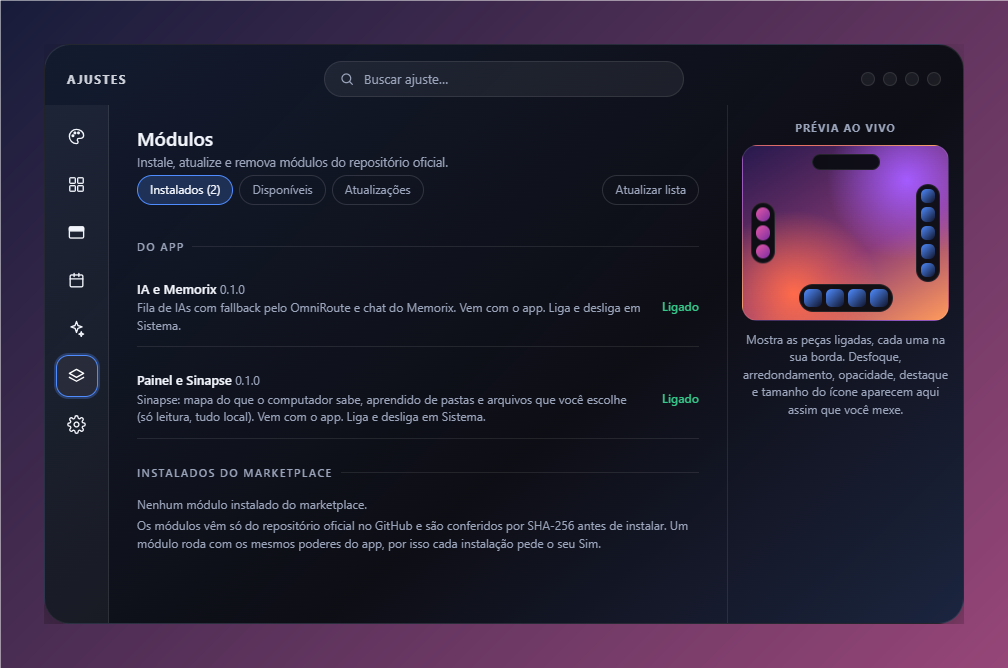
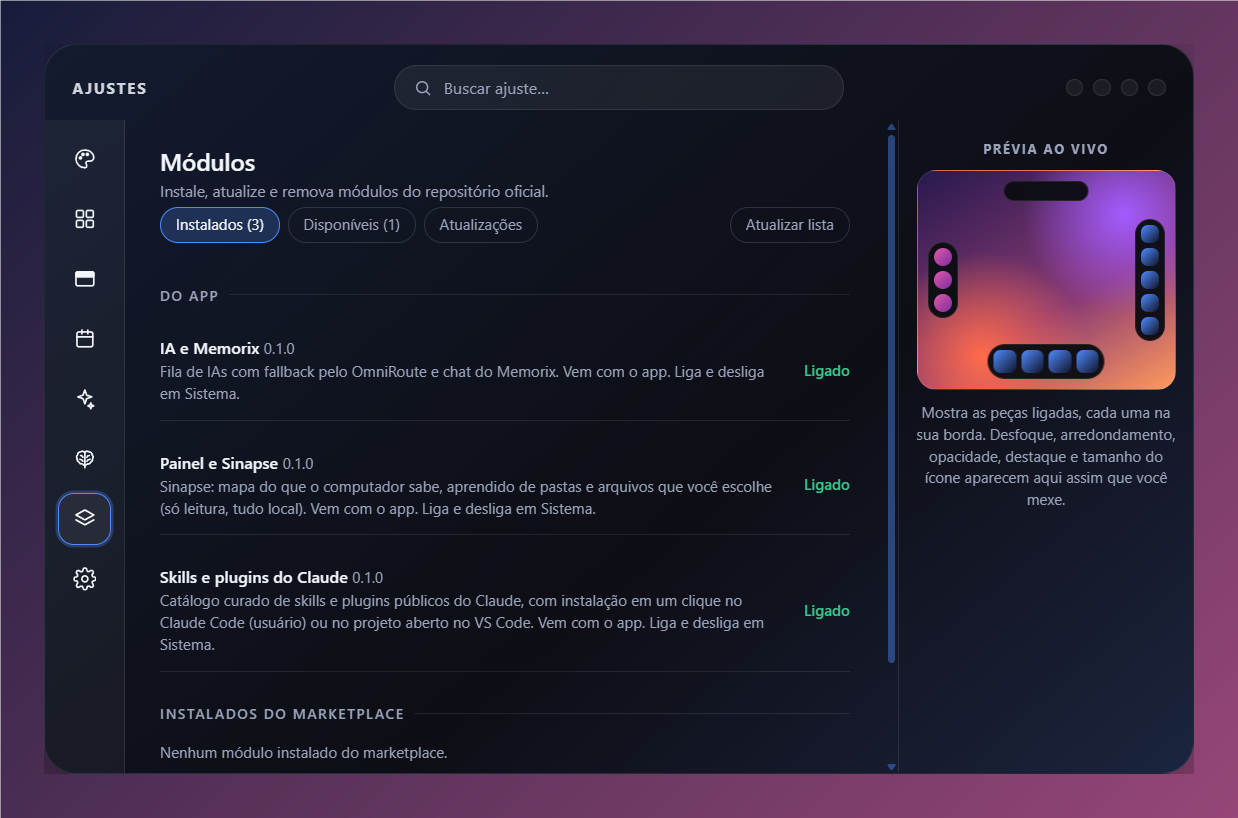
docs: fotos novas do app (Modulos, Disponiveis e Skills e plugins do Claude)

diff --git a/docs/skills-e-plugins-do-claude.md b/docs/skills-e-plugins-do-claude.md
@@ -2,6 +2,8 @@
 
 Além dos módulos do Dock, este repositório mantém um **catálogo curado de skills e plugins públicos do Claude**. No app, ele aparece em **Ajustes > Skills e plugins do Claude**, com um botão para instalar no **Claude Code** ou no **projeto aberto no VS Code**.
 
+![Ajustes > Skills e plugins do Claude](imagens/ajustes-claude.png)
+
 ## O que são
 
 | | O que é | Como o app instala |
@@ -21,6 +23,10 @@ O Claude Code do VS Code lê as duas pastas. A diferença é o alcance: a do usu
 Na primeira vez que você clica em **Instalar no VS Code**, o app pede a pasta do projeto e lembra a escolha. Troque quando quiser em **Trocar pasta…**.
 
 ## Passo a passo
+
+O filtro **Plugins** mostra só os plugins:
+
+![Filtro de plugins](imagens/ajustes-claude-plugins.png)
 
 1. Abra **Ajustes > Skills e plugins do Claude**.
 2. Procure pelo nome ou filtre por **Skills**, **Plugins** ou **Instalados**.

diff --git a/docs/como-usar.md b/docs/como-usar.md
@@ -8,6 +8,10 @@ No Memoritrix Dock, abra **Ajustes > Módulos** (o ícone de camadas na barra la
 
 ![Ajustes > Módulos](imagens/ajustes-modulos.png)
 
+A aba **Disponíveis** mostra o catálogo deste repositório:
+
+![Ajustes > Módulos > Disponíveis](imagens/ajustes-modulos-disponiveis.png)
+
 A tela tem três abas e um botão:
 
 | Aba | O que mostra |
